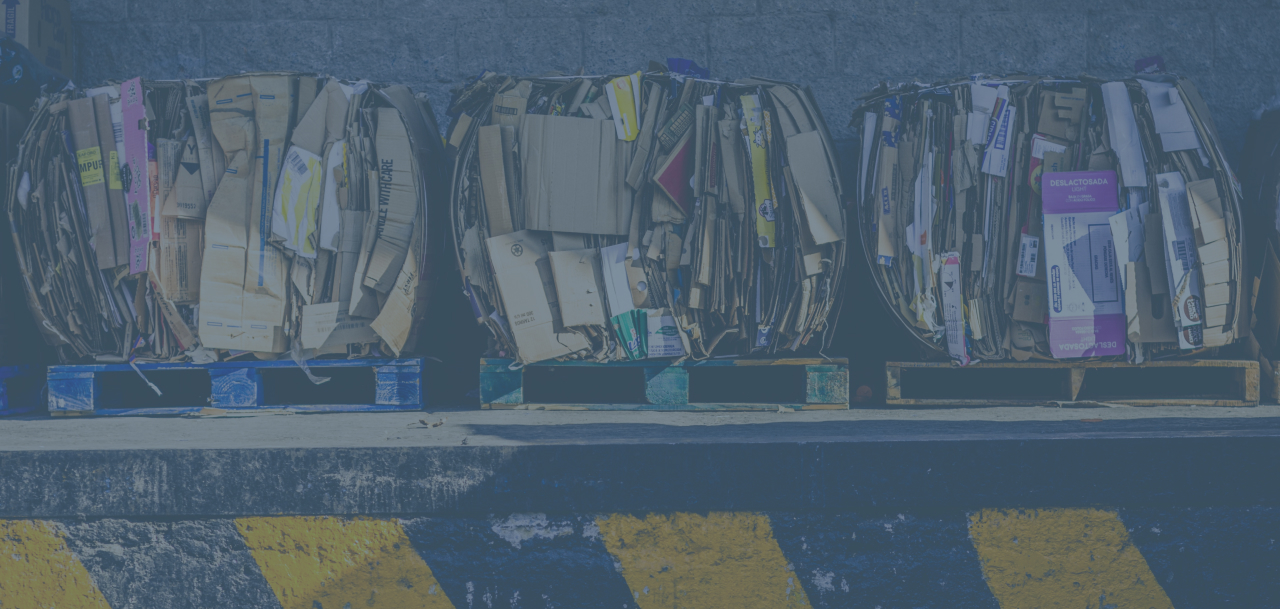
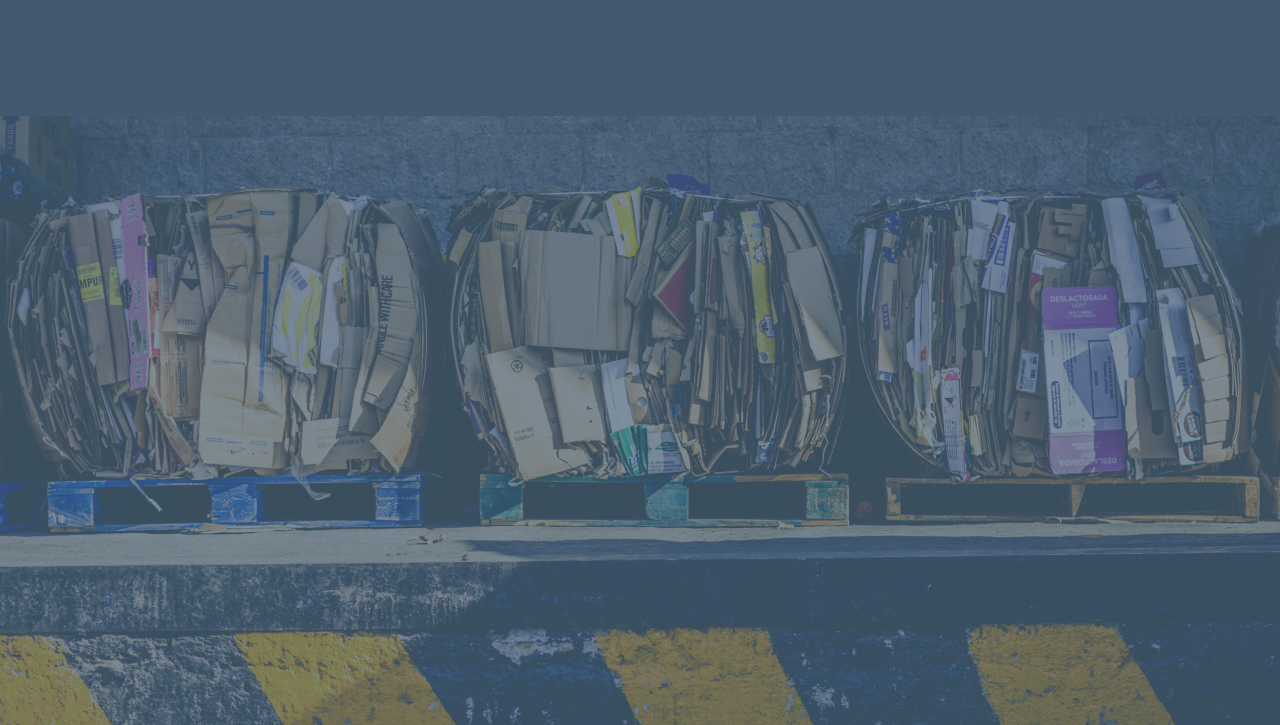
Main page looks like Figma

diff --git a/index.html b/index.html
@@ -33,13 +33,13 @@
     <!--         NAVBAR        -->
     <!-- --------------------- -->
  <header>
-  <nav class="navbar navbar-expand-lg navbar-custom fixed-top navbar-light marginLeft-sm marginRight-sm background-dark" id="nav">
+  <nav class="navbar navbar-expand-md navbar-custom fixed-top navbar-light marginLeft-sm marginRight-sm background-light" id="nav">
     <div class="navSpacer flex-grow-1 d-flex">
         <a class="navbar-brand " href="index.html"><img id="logo" src="../images/RM logo.svg" alt="Logo"></a>
     </div>   
     
-    <div class="flex-grow-1 d-flex">
-      <form class="form-inline flex-nowrap mx-0 mx-lg-auto">
+    <div class="flex-grow-1 d-flex ">
+      <form class="form-inline flex-nowrap mx-0 mx-lg-auto hide">
         <input class="form-control searchbar" type="search" placeholder="ex: plastic bags" aria-label="Search">
         <button class="btn btn-primary btn-outline-success my-2 my-sm-0 mySearchButton title-color-light " type="submit"><img src="../images/search-magnifier.svg" alt="magnifying glass"></button>
       </form>
@@ -51,11 +51,11 @@
 
     <div class="collapse navbar-collapse" id="navbarNavAltMarkup">
       <div class="navbar-nav ml-auto">
-        <a class="nav-item nav-link title-color-light" href="#">About</a>
-        <a class="nav-item nav-link js-anchor-link title-color-light" href="#myProcess">A-Z Index</a>
-        <a class="nav-item nav-link js-anchor-link title-color-light" href="#portfolio">Location</a>
-        <a class="nav-item nav-link js-anchor-link title-color-light" href="#aboutMe">News</a>
-        <a class="nav-item nav-link js-anchor-link toggle title-color-light" data-toggle="modal" data-target="#exampleModal" data-whatever="Miguel" href="#contactMe" >Contact</a>
+        <a class="nav-item nav-link title-color-dark" href="#">About</a>
+        <a class="nav-item nav-link js-anchor-link title-color-dark" href="#myProcess">A-Z Index</a>
+        <a class="nav-item nav-link js-anchor-link title-color-dark" href="#portfolio">Location</a>
+        <a class="nav-item nav-link js-anchor-link title-color-dark" href="#aboutMe">News</a>
+        <a class="nav-item nav-link js-anchor-link toggle title-color-dark" data-toggle="modal" data-target="#exampleModal" data-whatever="Miguel" href="#contactMe" >Contact</a>
       </div>
     </div>
   </nav>
@@ -67,21 +67,28 @@
     <!--         HERO          -->
     <!-- --------------------- -->
 
-    <div class="container d-flex justify-content-center">
+    <div class="container set-background">
       
       <div class="row pt-5">
-        <div class="col-12">
-            <img class="logoImage" src="images/Recycle Matters logo.png">
-      
-            <div class="flex-grow-1 d-flex main-search" style="z-index: 25;">
-              <form class="form-inline flex-nowrap mx-0 mx-lg-auto">
-                <input class="form-control searchbar" type="search" placeholder="ex: plastic bags" aria-label="Search">
+          <div class="col-12 d-flex justify-content-center flex-column">
+
+              <img class="rm-hero mx-auto hide" src="images/rm-hero.png">
+              <h1 class="hero-title text-center title-color-light">RECYCLE MATTERS</h1>
+              <h2 class="hero-subtitle title-color-light mx-auto">What's the matter?</h2>
+              </div>
+          </div>
+      </div>
+
+      <div class="row">
+          <div class="col-12 ">
+            <div class="flex-grow-1 d-flex main-search text-center" style="z-index: 25;">
+              <form class="form-inline flex-nowrap mx-0 mx-auto ">
+                <input class="form-control searchbar-homepage searchbar" type="search" placeholder="ex: batteries, plastic bags, light bulbs, etc" aria-label="Search">
                 <button class="btn btn-primary btn-outline-success my-2 my-sm-0 mySearchButton title-color-light " type="submit"><img src="../images/search-magnifier.svg" alt="magnifying glass"></button>
               </form>
-            </div>
-        </div>
-      
-        </div>
+          </div>
+      </div>
+
     </div>
 
 

diff --git a/css/general-styles.css b/css/general-styles.css
@@ -43,7 +43,8 @@ h1, h2, h3, h4, p {
 /* global border radius */
 .recycle-borders { border-radius: 4px !important;}
 
-
+ /* hide an element on a page */
+.hide {display: none !important;}
 /* ---------------------------------------- */
 
 /* --    Main Colors    --
@@ -96,7 +97,7 @@ Dark Gray 1             Dark Gray 2             Charcoal
 /* isolation color - normal state background*/
 .isolation-color { background-color: #2FD09A !important;}
 /* isolation color - text */
-.isolation-color-text { color: #2FD09A;}
+.isolation-color-text { color: #2FD09A !important;}
 /* isolation color - hover state background*/
 .hover-color { background-color: #5EBF9F !important;}
 /* placeholder text color */
@@ -105,6 +106,9 @@ Dark Gray 1             Dark Gray 2             Charcoal
 .transparent-background {background-color: rgba(255, 255, 255, 0) !important;}
 /* set border width to zero to get rid of bootstrap lines */
 .rm-border {border-width: 0px !important;}
+/* set navbar text color */
+.navbar-text-light {color: #2FD09A !important;}
+
 
 /* Bootstrap Button styling */
 .btn-primary {
@@ -142,16 +146,18 @@ Dark Gray 1             Dark Gray 2             Charcoal
    -- ------------ -- */
 
 .mySearchButton {
-    border-top-left-radius: 0px;
-    border-bottom-left-radius: 0px;
-    border-color: rgba(255, 255, 255, 0);
+    border-top-left-radius: 0px !important;
+    border-bottom-left-radius: 0px !important;
+    border-color: rgba(255, 255, 255, 0) !important;
+  
 }
  .searchbar{
     border-top-right-radius: 0px !important;
-    border-bottom-right-radius: 0px;
-    height: 40px;
-    z-index 20;
+    border-bottom-right-radius: 0px !important;
+    height: 40px !important;
 }
+
+
 .myFooter {
     background-color: #465F75;
 }

diff --git a/search.html b/search.html
@@ -48,11 +48,11 @@
   
         <div class="collapse navbar-collapse" id="navbarNavAltMarkup">
           <div class="navbar-nav ml-auto">
-            <a class="nav-item nav-link title-color-light" href="#">About</a>
-            <a class="nav-item nav-link js-anchor-link title-color-light" href="#myProcess">A-Z Index</a>
-            <a class="nav-item nav-link js-anchor-link title-color-light" href="#portfolio">Location</a>
-            <a class="nav-item nav-link js-anchor-link title-color-light" href="#aboutMe">News</a>
-            <a class="nav-item nav-link js-anchor-link toggle title-color-light" data-toggle="modal" data-target="#exampleModal" data-whatever="Miguel" href="#contactMe" >Contact</a>
+            <a class="nav-item nav-link navbar-text-light" href="#">About</a>
+            <a class="nav-item nav-link js-anchor-link navbar-text-light" href="#myProcess">A-Z Index</a>
+            <a class="nav-item nav-link js-anchor-link navbar-text-light" href="#portfolio">Location</a>
+            <a class="nav-item nav-link js-anchor-link navbar-text-light" href="#aboutMe">News</a>
+            <a class="nav-item nav-link js-anchor-link toggle navbar-text-light" data-toggle="modal" data-target="#exampleModal" data-whatever="Miguel" href="#contactMe" >Contact</a>
           </div>
         </div>
       </nav> 

diff --git a/atoz.html b/atoz.html
@@ -44,11 +44,11 @@
 
       <div class="collapse navbar-collapse" id="navbarNavAltMarkup">
         <div class="navbar-nav ml-auto">
-          <a class="nav-item nav-link title-color-light" href="#">About</a>
-          <a class="nav-item nav-link js-anchor-link title-color-light" href="#myProcess">A-Z Index</a>
-          <a class="nav-item nav-link js-anchor-link title-color-light" href="#portfolio">Location</a>
-          <a class="nav-item nav-link js-anchor-link title-color-light" href="#aboutMe">News</a>
-          <a class="nav-item nav-link js-anchor-link toggle title-color-light" data-toggle="modal" data-target="#exampleModal" data-whatever="Miguel" href="#contactMe" >Contact</a>
+          <a class="nav-item nav-link navbar-text-light" href="#">About</a>
+          <a class="nav-item nav-link js-anchor-link navbar-text-light" href="#myProcess">A-Z Index</a>
+          <a class="nav-item nav-link js-anchor-link navbar-text-light" href="#portfolio">Location</a>
+          <a class="nav-item nav-link js-anchor-link navbar-text-light" href="#aboutMe">News</a>
+          <a class="nav-item nav-link js-anchor-link toggle navbar-text-light" data-toggle="modal" data-target="#exampleModal" data-whatever="Miguel" href="#contactMe" >Contact</a>
         </div>
       </div>
     </nav> 

diff --git a/css/index-styles.css b/css/index-styles.css
@@ -2,28 +2,50 @@
    --   HOME PAGE (Index) Styles  --
    -- --------------------------- -- */
 
+   body {
+    height:100%;
+    padding-top: 116px;
+    background: url("../images/hero-pic.jpg") center center fixed;
+    background-size:cover;
+    /* z-index: 0; */
+    text-align: center;
+}
 
+.hero-title {
+  font-family: Bungee;
+  font-weight: normal;
+  font-size: 55px;
+}
+.hero-subtitle {
+  font-size: 27px;
+}
 
+.rm-hero {
+  width: 100%;
+  max-width: 426px;}
+.searchbar-homepage {
+  width: 412px !important;
+}
 
 /* body{
     height: 100%;
 }
        */
 
-.background-light {
+/* .background-light { */
     /* Set rules to fill background */
     /* min-height: 100%; */
     /* min-width: 1024px; */
       
     /* Set up proportionate scaling */
-    width: 100%;
-    height: auto;
+    /* width: 100%;
+    height: auto; */
       
     /* Set up positioning */
-    position: fixed;
+    /* position: fixed; */
     /* top: 0;
     left: 0; */
-}
+/* } */
   /* Place text in the middle of the image */
   /* .hero-text {
     text-align: center;
